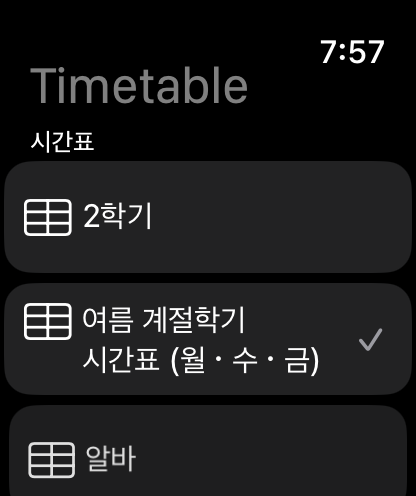
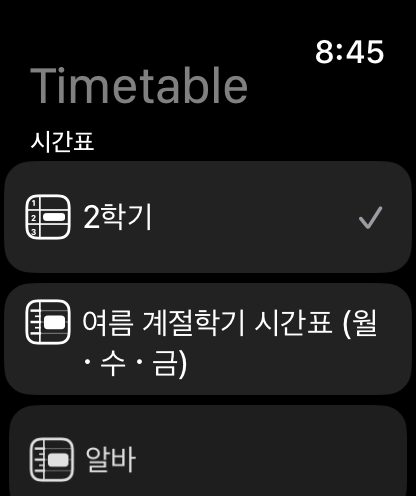
improve: blog — 워치 문서 목록의 유형 아이콘 (시간형 · 교시형)
목록 그림을 새 아이콘 캡처로 바꾸고, 아이폰 "유형" 행과 같은 그림을 쓴다는 한 문단을 더했다.

Claude-Session: https://claude.ai/code/session_01UreDqksfHdaR6RNXM2CSed

diff --git a/src/content/blog/ko/2026-11-11-timetable-watch-day-view.md b/src/content/blog/ko/2026-11-11-timetable-watch-day-view.md
@@ -1,6 +1,6 @@
 ---
 title: "한 달 전에 뺀 워치 앱을 다시 넣었다 — 이번엔 하루가 한 쪽이다"
-date: 2026-11-11T20:09:37+09:00
+date: 2026-11-11T20:48:14+09:00
 app: "timetable"
 tags: ["devlog", "swiftui", "design"]
 summary: "애플워치에서 오늘 일정을 세로로 훑고, 좌우로 쓸어 어제와 내일을 본다. 캘린더의 반복 규칙은 워치에 다시 만들지 않고 아이폰이 날짜별로 풀어서 보낸다."
@@ -53,9 +53,9 @@ summary: "애플워치에서 오늘 일정을 세로로 훑고, 좌우로 쓸어
 
 아침에 "워치에 고르는 화면은 두지 않는다" 고 정했는데 그날 저녁에 뒤집었다. 학기 시간표를 보다가 알바 시간표를 보려면 아이폰을 꺼내 그 시간표를 열어야 했다. 손목에서 보려고 만든 앱인데, 고르려면 폰이 필요했다.
 
-이제 워치 앱의 바닥은 문서 목록이다. 시간표 묶음이 먼저, 캘린더 묶음이 다음이고 순서는 아이폰 목록과 같다.
+이제 워치 앱의 바닥은 문서 목록이다. 시간표 묶음이 먼저, 캘린더 묶음이 다음이고 순서는 아이폰 목록과 같다. 시간표 줄 앞의 아이콘은 유형대로 다르다 — 시간형은 눈금자, 교시형은 1 · 2 · 3 번호 칸. 아이폰 시간표 설정의 "유형" 행이 쓰는 그림 그대로다. 워치는 아이폰 앱의 코드를 못 쓰니 그림을 옮겨 적었고, 두 소스의 그리기 코드가 글자 그대로 같은지 테스트가 대조한다.
 
-![문서 목록 — 지금 앱을 열면 뜰 시간표의 줄 끝에 체크가 붙는다](/blog/timetable-watch-day-view/document-list.png)
+![문서 목록 — 지금 앱을 열면 뜰 시간표의 줄 끝에 체크가 붙고, 줄 앞 아이콘은 교시형과 시간형이 다르다](/blog/timetable-watch-day-view/document-list.png)
 
 | 조작 | 일어나는 일 |
 |---|---|

diff --git a/src/content/blog/en/2026-11-11-timetable-watch-day-view.md b/src/content/blog/en/2026-11-11-timetable-watch-day-view.md
@@ -1,6 +1,6 @@
 ---
 title: "We put the watch app back a month after removing it — one day per page"
-date: 2026-11-11T20:09:37+09:00
+date: 2026-11-11T20:48:14+09:00
 app: "timetable"
 tags: ["devlog", "swiftui", "design"]
 summary: "Scroll today's schedule on your wrist and swipe sideways for yesterday and tomorrow. Calendar recurrence is not re-implemented on the watch; the iPhone expands it into dated days and sends those."
@@ -49,9 +49,9 @@ The removed version had a watch-face complication, which brought a watch app gro
 
 The morning version had no picker. That lasted half a day: to look at a different timetable on your wrist you had to take out the iPhone and open it there.
 
-The watch app now sits on a document list — timetables first, then calendars, in the same order as the iPhone.
+The watch app now sits on a document list — timetables first, then calendars, in the same order as the iPhone. Each timetable row carries the icon of its type: a ruler for clock-based timetables, numbered slots for period-based ones — the same drawings the iPhone settings use. The watch cannot share the phone app's code, so the drawing is copied and a test compares the two sources character for character.
 
-![Document list — a checkmark marks the one the app would open](/blog/timetable-watch-day-view/document-list.png)
+![Document list — a checkmark marks the one the app would open; period and clock timetables get different icons](/blog/timetable-watch-day-view/document-list.png)
 
 | Gesture | Result |
 |---|---|
